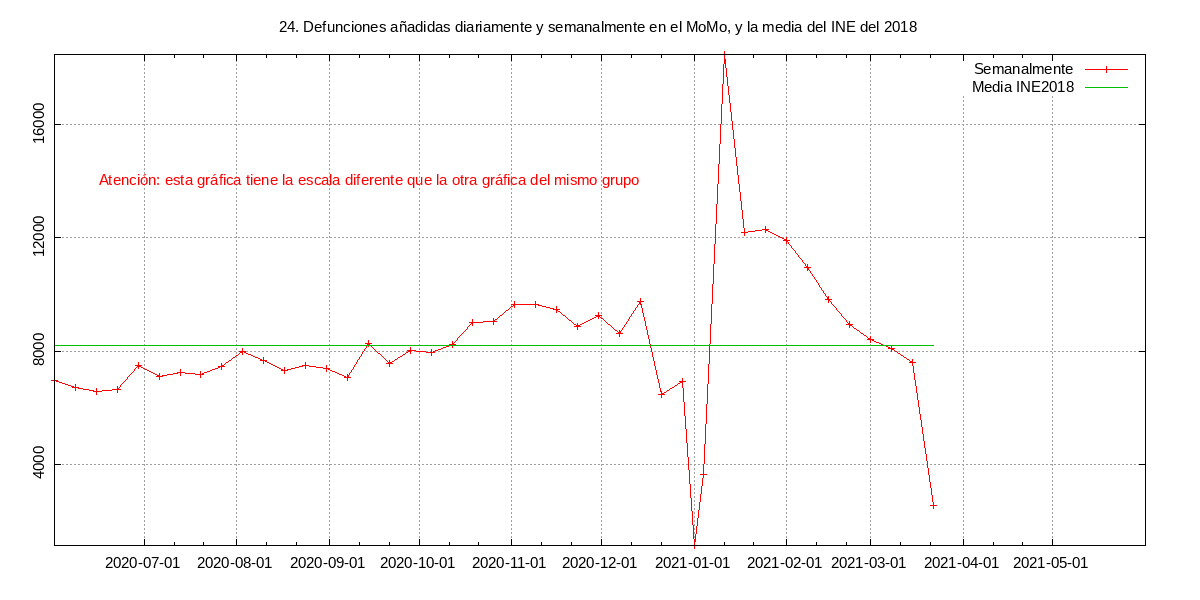
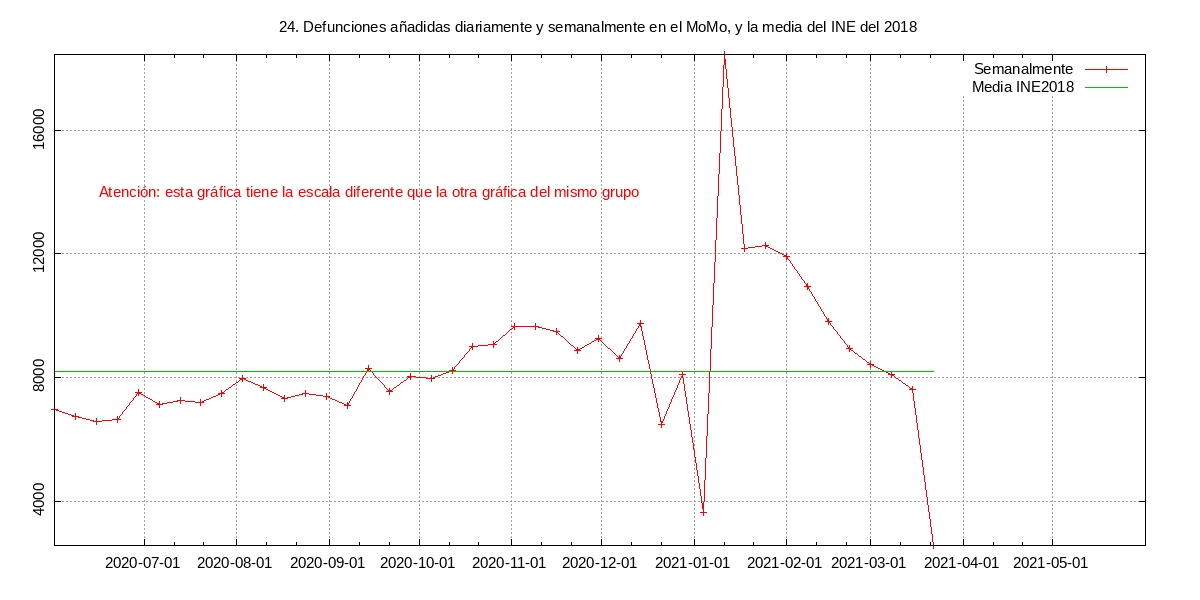
Arreglar error al agrupar les dades per setmanes, l'any ha de complir la norma ISO-8601 que es fa servir per calcular la setmana

diff --git a/php/plot24.php b/php/plot24.php
@@ -31,7 +31,7 @@ if(!file_exists("output/plot24${lang}1.png")) {
 	}
 	$matrix2=array();
 	foreach($matrix1 as $key=>$val) {
-		$week=date("Y-W",strtotime($val[0]));
+		$week=date("o-W",strtotime($val[0]));
 		if(!isset($matrix2[$week])) $matrix2[$week]=array($val[0],0);
 		$matrix2[$week][1]+=$val[1];
 	}
